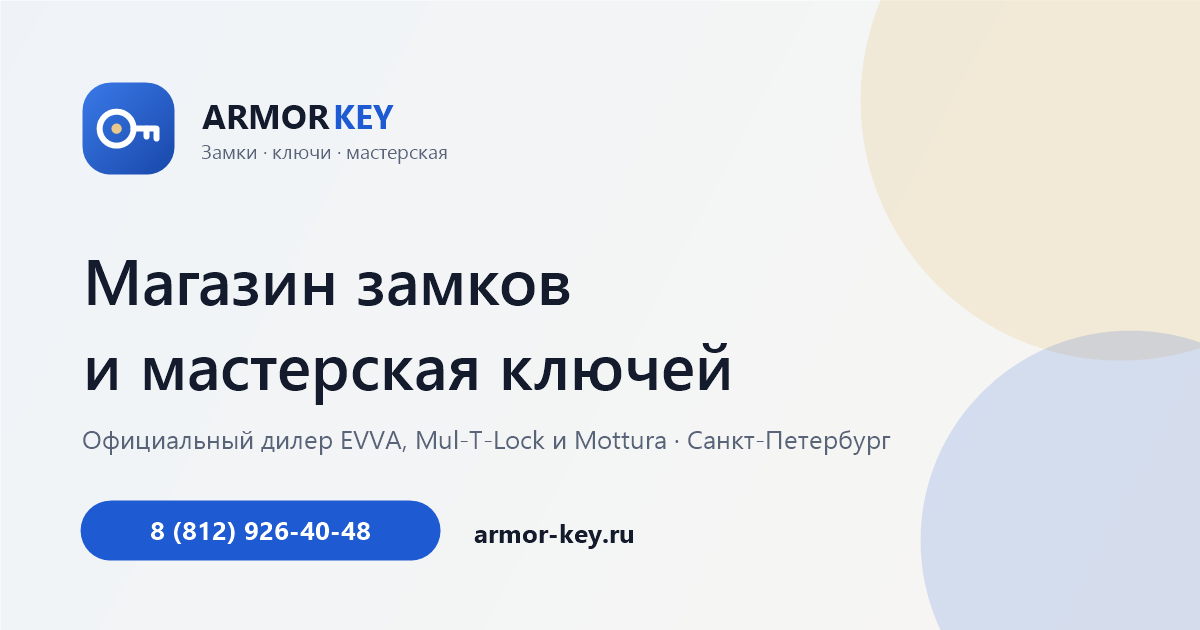
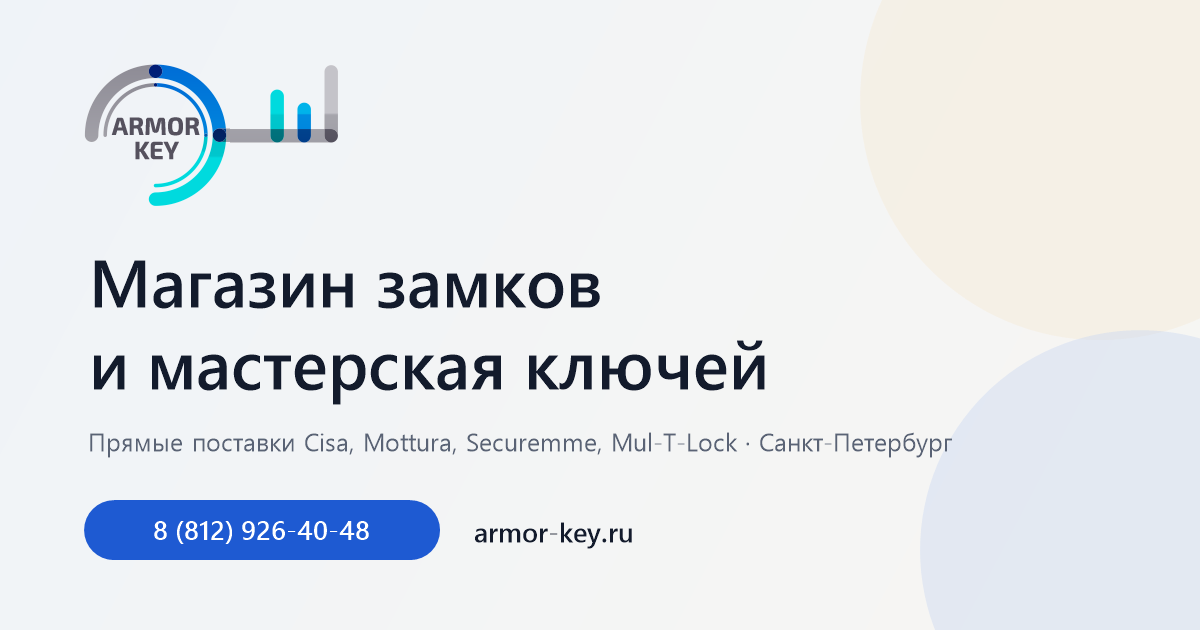
Логотип со старого сайта, фавиконки и превью ссылок из него

diff --git a/search/index.html b/search/index.html
@@ -20,7 +20,7 @@
   <meta property="og:image:width" content="1200">
   <meta property="og:image:height" content="630">
   <meta name="twitter:card" content="summary_large_image">
-  <link rel="icon" href="/armor-key-preview/assets/img/favicon.svg" type="image/svg+xml">
+  <link rel="icon" href="/armor-key-preview/assets/img/favicon.ico" sizes="48x48">
   <link rel="icon" href="/armor-key-preview/assets/img/favicon-32.png" sizes="32x32" type="image/png">
   <link rel="apple-touch-icon" href="/armor-key-preview/assets/img/apple-touch-icon.png">
   <script type="application/ld+json">{"@context":"https://schema.org","@type":"BreadcrumbList","itemListElement":[{"@type":"ListItem","position":1,"name":"Главная","item":"https://armor-key.ru/"},{"@type":"ListItem","position":2,"name":"Поиск","item":"https://armor-key.ru/search/"}]}</script>
@@ -28,7 +28,7 @@
   <link rel="preconnect" href="https://fonts.googleapis.com">
   <link rel="preconnect" href="https://fonts.gstatic.com" crossorigin>
   <link href="https://fonts.googleapis.com/css2?family=Manrope:wght@400;500;600;700;800&display=swap" rel="stylesheet">
-  <link rel="stylesheet" href="/armor-key-preview/assets/css/style.css?v=56c105db">
+  <link rel="stylesheet" href="/armor-key-preview/assets/css/style.css?v=d52d5fbb">
   
 </head>
 <body>
@@ -54,6 +54,6 @@
     <script type="application/json" id="search-index">[{"t":"Броненакладки и пластины","d":"Броненакладки и бронепластины для цилиндровых и сувальдных замков. Подбор по типу замка и толщине двери, установка.","u":"/armor-key-preview/catalog/bronenakladki-i-komplektuyushchie/bronenakladki-i-plastiny/"},{"t":"Броненакладки и комплектующие","d":"Броненакладки и пластины, магнитные броненакладки, перекодировочные комплекты для замков. Подбор под цилиндр, установка мастером.","u":"/armor-key-preview/catalog/bronenakladki-i-komplektuyushchie/"},{"t":"Магнитные броненакладки","d":"Магнитные броненакладки с закрывающейся шторкой для цилиндровых замков. Защита от вандализма и манипуляций. Установка.","u":"/armor-key-preview/catalog/bronenakladki-i-komplektuyushchie/magnitnye-bronenakladki/"},{"t":"Перекодировочные комплекты для замков","d":"Перекодировочные комплекты для сувальдных замков: новые ключи без замены замка. Подбор по модели, установка мастером.","u":"/armor-key-preview/catalog/bronenakladki-i-komplektuyushchie/perekodirovochnye-kompekty-dlya-zamkov/"},{"t":"Дополнительные опции EVVA","d":"Дополнительные опции и комплектующие для цилиндров EVVA. Заказ у официального дилера в Санкт-Петербурге.","u":"/armor-key-preview/catalog/dopolnitelnye-optsii/evva/"},{"t":"Дополнительные опции к цилиндрам","d":"Дополнительные опции и комплектующие для цилиндров EVVA и Mul-T-Lock: удлинители, вертушки, защитные функции. Официальный дилер.","u":"/armor-key-preview/catalog/dopolnitelnye-optsii/"},{"t":"Дополнительные опции Mul-T-Lock","d":"Дополнительные опции и комплектующие для цилиндров Mul-T-Lock. Заказ у официального дилера в Санкт-Петербурге.","u":"/armor-key-preview/catalog/dopolnitelnye-optsii/mul-t-lock/"},{"t":"Каталог замков и комплектующих","d":"Замки, цилиндровые механизмы, броненакладки и мастер-системы Cisa, Mottura, Securemme, Mul-T-Lock. Прямые поставки, цены ниже маркетплейсов, доставка по СПб и России.","u":"/armor-key-preview/catalog/"},{"t":"Мастер-система под один ключ","d":"Цилиндры под один ключ и иерархические мастер-системы Mul-T-Lock, EVVA, Mottura для дома, офиса и ЖК. Сборка за 1 день, при покупке цилиндров — бесплатно.","u":"/armor-key-preview/catalog/master-sistema-pod-odin-klyuch/"},{"t":"Цилиндровые механизмы Апекс","d":"Цилиндровые механизмы Апекс (Apecs) для входных и межкомнатных дверей. Недорогие цилиндры с перекодировкой и мастер-системами.","u":"/armor-key-preview/catalog/tsilindrovye-mekhanizmy/apeks/"},{"t":"Цилиндровые механизмы (личинки)","d":"Цилиндры Cisa, Mottura, Securemme, Mul-T-Lock, EVVA с картой владельца. Подбор размера, замена личинки мастером, прямые поставки.","u":"/armor-key-preview/catalog/tsilindrovye-mekhanizmy/"},{"t":"Цилиндровые механизмы Securemme","d":"Цилиндры Securemme для входных дверей. Подбор размера, замена личинки и замков Securemme, изготовление ключей.","u":"/armor-key-preview/catalog/tsilindrovye-mekhanizmy/securemme/"},{"t":"Цилиндровые механизмы Mul-T-Lock","d":"Цилиндровые механизмы Mul-T-Lock: Interactive+, Classic, MT5 и другие серии. Официальный дилер, карта владельца, перекодировка.","u":"/armor-key-preview/catalog/tsilindrovye-mekhanizmy/tsilindrovye-mekhanizmy-mul-t-lock/"},{"t":"Цилиндровые механизмы Rav-Bariach","d":"Цилиндровые механизмы Rav-Bariach (Израиль) для стальных дверей. Подбор размера и замена личинки в Санкт-Петербурге.","u":"/armor-key-preview/catalog/tsilindrovye-mekhanizmy/tsilindrovye-mekhanizmy-rav-bariach1/"},{"t":"Цилиндровые механизмы Cisa","d":"Цилиндровые механизмы Cisa Asix, Astral, AP3 и другие. Подбор размера, замена личинки, изготовление ключей Cisa в мастерской.","u":"/armor-key-preview/catalog/tsilindrovye-mekhanizmy/tsilindrovyy-mekhanizm-cisa-italiya/"},{"t":"Цилиндровые механизмы EVVA","d":"Цилиндры EVVA ICS, 3KS, 4KS, EPS, MCS с картой владельца. Официальный дилер в Санкт-Петербурге, изготовление ключей, мастер-системы.","u":"/armor-key-preview/catalog/tsilindrovye-mekhanizmy/tsilindrovyy-mekhanizm-evva-avstriya/"},{"t":"Цилиндровые механизмы Kale Kilit","d":"Цилиндровые механизмы Kale Kilit для входных дверей. Подбор размера по фото, замена личинки мастером в Санкт-Петербурге.","u":"/armor-key-preview/catalog/tsilindrovye-mekhanizmy/tsilindrovyy-mekhanizm-kale-kilit-turtsiya/"},{"t":"Цилиндровые механизмы Mottura","d":"Цилиндры Mottura Champion, Champion Pro, C39 и другие серии. Официальный дилер, изготовление ключей, перекодировка серии J.","u":"/armor-key-preview/catalog/tsilindrovye-mekhanizmy/tsilindrovyy-mekhanizm-mottura-italiya/"},{"t":"Замки для входных дверей","d":"Врезные, накладные и навесные замки для металлических и деревянных дверей. Cisa, Mottura, Securemme, Mul-T-Lock. Подбор по фото, установка от 6 000 ₽.","u":"/armor-key-preview/catalog/zamki/"},{"t":"Накладные замки","d":"Накладные замки для металлических и деревянных дверей, с вертушкой и защёлкой. Подбор и установка мастером в Санкт-Петербурге.","u":"/armor-key-preview/catalog/zamki/nakladnye-zamki/"},{"t":"Навесные замки","d":"Навесные замки для гаражей, складов, ворот и калиток. Замки с защищённой дужкой и высокой секретностью. Доставка по СПб.","u":"/armor-key-preview/catalog/zamki/navesnye-zamki/"},{"t":"Врезные замки","d":"Врезные сувальдные, цилиндровые и двухсистемные замки для металлических и деревянных дверей. Подбор по габаритам, установка мастером.","u":"/armor-key-preview/catalog/zamki/vreznye-zamki/"},{"t":"Замок врезной Apecs 1423-G","d":"Замок врезной Apecs 1423-G для входных и межкомнатных дверей. Официальная гарантия 2 года, установка за 1 день.","u":"/armor-key-preview/catalog/zamki/vreznye-zamki/zamok-vreznoy-apecs-1423-g/"},{"t":"Мастерская, которой доверяют ключи","d":"Armor Key — мастерская и магазин замков в Санкт-Петербурге. Изготовление ключей, установка и ремонт замков, официальный дилер EVVA, Mul-T-Lock, Mottura.","u":"/armor-key-preview/company/"},{"t":"Контакты","d":"Адрес мастерской Armor Key: Санкт-Петербург, пр. Юрия Гагарина, 34 к2. Телефон 8 (812) 926-40-48, ежедневно 10:00–20:00.","u":"/armor-key-preview/contacts/"},{"t":"Доставка и оплата","d":"Самовывоз бесплатно, доставка по Санкт-Петербургу в день заказа, СДЭК по России. Бесплатная доставка от 10 000 ₽. Оплата наличными, картой, по счёту.","u":"/armor-key-preview/help/delivery/"},{"t":"Гарантия и возврат","d":"Официальная гарантия на замки до 2 лет. Возврат товара в течение 14 дней, для заказов с доставкой — 7 дней с момента получения.","u":"/armor-key-preview/help/warranty/"},{"t":"Надёжные замки и&nbsp;ключи за 10 минут","d":"Взломостойкие замки, цилиндры и броненакладки EVVA, Mul-T-Lock, Mottura. Изготовление ключей, вскрытие, замена и установка замков в СПб. Официальный дилер, гарантия 2 года.","u":"/"},{"t":"EVVA в Санкт-Петербурге","d":"Официальный дилер EVVA в СПб: цилиндры EPS, ICS, 3KS, 4KS, MCS с картой владельца, изготовление ключей, мастер-системы.","u":"/armor-key-preview/info/brands/evva/"},{"t":"Бренды","d":"EVVA, Mul-T-Lock, Mottura, Cisa, Securemme, Kale и другие бренды замков в Санкт-Петербурге. Официальная гарантия, цены производителя.","u":"/armor-key-preview/info/brands/"},{"t":"Mottura в Санкт-Петербурге","d":"Официальный дилер Mottura в СПб: цилиндры Champion и Champion Pro, ключи MY-KEY, C39, C30, перекодировка замков серии J.","u":"/armor-key-preview/info/brands/mottura/"},{"t":"Mul-T-Lock в Санкт-Петербурге","d":"Официальный дилер Mul-T-Lock в СПб: цилиндры Interactive+, Classic, MT5, ключи по карте, перекодировка цилиндров на новые ключи.","u":"/armor-key-preview/info/brands/mul_t_lock/"},{"t":"Политика обработки персональных данных","d":"Политика в отношении обработки персональных данных пользователей сайта armor-key.ru.","u":"/armor-key-preview/privacy/"},{"t":"Акции","d":"Скидки на мастер-системы, изготовление ключей, установку и замену замков, броненакладки в Санкт-Петербурге.","u":"/armor-key-preview/sale/"},{"t":"Услуги и цены","d":"Изготовление ключей, вскрытие, замена, установка и перекодировка замков, автоключи и мастер-системы в Санкт-Петербурге. Актуальные цены.","u":"/armor-key-preview/services/"},{"t":"Изготовление автоключей","d":"Дубликаты автоключей, ключи с чипом и пультом, копия чипа для автозапуска. Изготовление по замку зажигания или двери. Цены от 1 500 ₽.","u":"/armor-key-preview/services/izgotovlenie-avtoklyuchey/"},{"t":"Изготовление дубликатов ключей EVVA","d":"Дубликаты ключей EVVA EPS, 3KS, ICS, 4KS, MCS по карте владельца. Официальный дилер EVVA в Санкт-Петербурге. EPS — за 5 минут, 3KS — за 10 минут.","u":"/armor-key-preview/services/izgotovlenie-dublikatov-klyuchey-evva/"},{"t":"Изготовление ключей","d":"Изготовление дубликатов ключей EVVA, Mul-T-Lock, Mottura, Cisa, Securemme, Gerda, Disec. Большинство ключей — за 5–15 минут при вас. Официальный дилер.","u":"/armor-key-preview/services/izgotovlenie-klyuchey/"},{"t":"Изготовление ключей Cisa","d":"Дубликаты ключей Cisa Asix, Astral, AP3, RS3 и сувальдных «бабочек». От 5 минут, гарантия на все копии. Мастерская на пр. Юрия Гагарина.","u":"/armor-key-preview/services/izgotovlenie-klyuchey-cisa/"},{"t":"Изготовление мастер-систем","d":"Цилиндры под один ключ и иерархические мастер-системы Mul-T-Lock, EVVA, Mottura, Апекс. Сборка за 1 день, при покупке цилиндров — бесплатно.","u":"/armor-key-preview/services/izgotovlenie-master-sistem/"},{"t":"Перекодировка замков","d":"Перекодировка замков Mul-T-Lock, Cisa, Mottura, Гардиан на новые ключи без замены замка. Официальный партнёр Mul-T-Lock, выезд мастера.","u":"/armor-key-preview/services/perekodirovka-zamkov/"},{"t":"Установка замков","d":"Установка врезных и накладных замков в металлические и деревянные двери, калитки. Установка ручек и задвижек. Цены от 6 000 ₽, гарантия.","u":"/armor-key-preview/services/ustanovka-zamkov/"},{"t":"Вскрытие замков","d":"Аккуратное вскрытие дверных замков, сейфов и автомобилей в Санкт-Петербурге. Цены от 3 500 ₽, выезд мастера, восстановление или замена замка.","u":"/armor-key-preview/services/vskrytie-zamkov/"},{"t":"Замена замков и личинок","d":"Замена замков, личинок и дверных ручек на металлических и деревянных дверях. Цены от 4 500 ₽, выезд мастера по СПб, гарантия на работы.","u":"/armor-key-preview/services/zamena-zamkov/"},{"t":"Замена замков Securemme","d":"Замена замков и цилиндров Securemme на входных дверях. Подбор оригинальных комплектующих, выезд мастера по СПб, гарантия на работы.","u":"/armor-key-preview/services/zamena-zamkov-securemme/"}]</script>
   </main>
   <div data-include="footer"></div>
-  <script src="/armor-key-preview/assets/js/main.js?v=56c105db"></script>
+  <script src="/armor-key-preview/assets/js/main.js?v=d52d5fbb"></script>
 </body>
 </html>

diff --git a/assets/js/main.js b/assets/js/main.js
@@ -63,14 +63,8 @@ const P = {
 };
 const icon = (n, cls = '') => `<svg class="${cls}" viewBox="0 0 24 24" fill="none" stroke="currentColor" stroke-width="1.75" stroke-linecap="round" stroke-linejoin="round" aria-hidden="true">${P[n] || ''}</svg>`;
 
-/* Временный логотип-знак (до получения вектора от клиента) */
-const LOGO_MARK = `<svg class="logo__mark" viewBox="0 0 48 48" aria-hidden="true">
-  <defs><linearGradient id="lg" x1="0" y1="0" x2="1" y2="1"><stop offset="0" stop-color="#3A7BEA"/><stop offset="1" stop-color="#1846A8"/></linearGradient></defs>
-  <rect x="1" y="1" width="46" height="46" rx="14" fill="url(#lg)"/>
-  <circle cx="18" cy="24" r="8.5" fill="none" stroke="#fff" stroke-width="3"/>
-  <circle cx="18" cy="24" r="2.6" fill="#E9C98B"/>
-  <path d="M26.5 24H38v5M33 24v4" fill="none" stroke="#fff" stroke-width="3" stroke-linecap="round" stroke-linejoin="round"/>
-</svg>`;
+/* Логотип со старого сайта armor-key.ru (PNG 254×142, обрезан по краям). Нужен вектор (SVG) от клиента — заменить src. */
+const LOGO_MARK = `<img class="logo__img" src="/armor-key-preview/assets/img/logo.png" alt="Armor Key" width="254" height="142">`;
 
 /* --- Данные каталога (демо из реального ассортимента) -------------------- */
 const PRODUCTS = [
@@ -156,7 +150,7 @@ const partials = {
   <header class="header" id="header">
     <div class="container">
       <a class="logo" href="/armor-key-preview/" aria-label="Armor Key — на главную">${LOGO_MARK}
-        <span class="logo__text"><span class="logo__name">ARMOR<b>KEY</b></span><span class="logo__sub">Замки · ключи · мастерская</span></span>
+        <span class="logo__sub logo__sub--side">Замки · ключи<br>мастерская</span>
       </a>
       <nav class="nav" aria-label="Основное меню">
         <a class="nav__link nav__catalog" href="/armor-key-preview/catalog/" data-mega>${icon('grid')}Каталог</a>
@@ -203,7 +197,7 @@ const partials = {
   <div class="drawer" id="drawer" aria-hidden="true">
     <div class="drawer__overlay" data-drawer-close></div>
     <aside class="drawer__panel" aria-label="Мобильное меню">
-      <div class="drawer__head"><a class="logo" href="/armor-key-preview/">${LOGO_MARK}<span class="logo__text"><span class="logo__name">ARMOR<b>KEY</b></span></span></a>
+      <div class="drawer__head"><a class="logo" href="/armor-key-preview/">${LOGO_MARK}</a>
         <button class="icon-btn" aria-label="Закрыть" data-drawer-close>${icon('x')}</button></div>
       <nav class="drawer__nav">
         <details><summary>Каталог ${icon('chevron')}</summary>
@@ -227,7 +221,7 @@ const partials = {
     <div class="container">
       <div class="footer__grid">
         <div class="footer__about">
-          <a class="logo" href="/armor-key-preview/">${LOGO_MARK}<span class="logo__text"><span class="logo__name">ARMOR<b>KEY</b></span><span class="logo__sub">Замки · ключи · мастерская</span></span></a>
+          <a class="logo" href="/armor-key-preview/">${LOGO_MARK}</a>
           <p>Магазин замков и мастерская в Санкт-Петербурге. Прямые поставки Cisa, Mottura, Securemme и Mul-T-Lock — цены ниже, чем на маркетплейсах.</p>
           <div class="footer__social">
             <a href="${SITE.vk}" target="_blank" rel="noopener" aria-label="ВКонтакте">${icon('vk')}</a>

diff --git a/services/izgotovlenie-klyuchey/index.html b/services/izgotovlenie-klyuchey/index.html
@@ -20,7 +20,7 @@
   <meta property="og:image:width" content="1200">
   <meta property="og:image:height" content="630">
   <meta name="twitter:card" content="summary_large_image">
-  <link rel="icon" href="/armor-key-preview/assets/img/favicon.svg" type="image/svg+xml">
+  <link rel="icon" href="/armor-key-preview/assets/img/favicon.ico" sizes="48x48">
   <link rel="icon" href="/armor-key-preview/assets/img/favicon-32.png" sizes="32x32" type="image/png">
   <link rel="apple-touch-icon" href="/armor-key-preview/assets/img/apple-touch-icon.png">
   <script type="application/ld+json">{"@context":"https://schema.org","@type":"BreadcrumbList","itemListElement":[{"@type":"ListItem","position":1,"name":"Главная","item":"https://armor-key.ru/"},{"@type":"ListItem","position":2,"name":"Услуги","item":"https://armor-key.ru/services/"},{"@type":"ListItem","position":3,"name":"Изготовление ключей","item":"https://armor-key.ru/services/izgotovlenie-klyuchey/"}]}</script>
@@ -28,7 +28,7 @@
   <link rel="preconnect" href="https://fonts.googleapis.com">
   <link rel="preconnect" href="https://fonts.gstatic.com" crossorigin>
   <link href="https://fonts.googleapis.com/css2?family=Manrope:wght@400;500;600;700;800&display=swap" rel="stylesheet">
-  <link rel="stylesheet" href="/armor-key-preview/assets/css/style.css?v=56c105db">
+  <link rel="stylesheet" href="/armor-key-preview/assets/css/style.css?v=d52d5fbb">
   <script type="application/ld+json">{"@context":"https://schema.org","@type":"Service","name":"Изготовление ключей","description":"Изготовление дубликатов ключей EVVA, Mul-T-Lock, Mottura, Cisa, Securemme, Gerda, Disec. Большинство ключей — за 5–15 минут при вас. Официальный дилер.","serviceType":"Изготовление ключей","areaServed":"Санкт-Петербург и Ленинградская область","provider":{"@type":"Locksmith","name":"Armor Key","telephone":"+7-812-926-40-48","url":"https://armor-key.ru"},"offers":{"@type":"AggregateOffer","priceCurrency":"RUB","lowPrice":400,"highPrice":11370}}</script>
   <script type="application/ld+json">{"@context":"https://schema.org","@type":"FAQPage","mainEntity":[{"@type":"Question","name":"Нужна ли карта владельца?","acceptedAnswer":{"@type":"Answer","text":"Для ключей EVVA (ICS, 4KS, MCS), патентованных Mul-T-Lock и Mottura — да. Для обычных ключей достаточно образца."}},{"@type":"Question","name":"Что делать, если дубликат плохо работает?","acceptedAnswer":{"@type":"Answer","text":"Привезите ключ в мастерскую — доработаем или переделаем бесплатно. На все дубликаты действует гарантия."}},{"@type":"Question","name":"Можно ли заказать ключ дистанционно?","acceptedAnswer":{"@type":"Answer","text":"Да: пришлите фото ключа и карты владельца в WhatsApp, мы назовём цену и срок. Готовый ключ отправим курьером или СДЭК."}}]}</script>
 </head>
@@ -164,6 +164,6 @@
     </section>
   </main>
   <div data-include="footer"></div>
-  <script src="/armor-key-preview/assets/js/main.js?v=56c105db"></script>
+  <script src="/armor-key-preview/assets/js/main.js?v=d52d5fbb"></script>
 </body>
 </html>

diff --git a/catalog/zamki/index.html b/catalog/zamki/index.html
@@ -20,7 +20,7 @@
   <meta property="og:image:width" content="1200">
   <meta property="og:image:height" content="630">
   <meta name="twitter:card" content="summary_large_image">
-  <link rel="icon" href="/armor-key-preview/assets/img/favicon.svg" type="image/svg+xml">
+  <link rel="icon" href="/armor-key-preview/assets/img/favicon.ico" sizes="48x48">
   <link rel="icon" href="/armor-key-preview/assets/img/favicon-32.png" sizes="32x32" type="image/png">
   <link rel="apple-touch-icon" href="/armor-key-preview/assets/img/apple-touch-icon.png">
   <script type="application/ld+json">{"@context":"https://schema.org","@type":"BreadcrumbList","itemListElement":[{"@type":"ListItem","position":1,"name":"Главная","item":"https://armor-key.ru/"},{"@type":"ListItem","position":2,"name":"Каталог","item":"https://armor-key.ru/catalog/"},{"@type":"ListItem","position":3,"name":"Замки","item":"https://armor-key.ru/catalog/zamki/"}]}</script>
@@ -28,7 +28,7 @@
   <link rel="preconnect" href="https://fonts.googleapis.com">
   <link rel="preconnect" href="https://fonts.gstatic.com" crossorigin>
   <link href="https://fonts.googleapis.com/css2?family=Manrope:wght@400;500;600;700;800&display=swap" rel="stylesheet">
-  <link rel="stylesheet" href="/armor-key-preview/assets/css/style.css?v=56c105db">
+  <link rel="stylesheet" href="/armor-key-preview/assets/css/style.css?v=d52d5fbb">
   <script type="application/ld+json">{"@context":"https://schema.org","@type":"CollectionPage","name":"Замки для входных дверей","description":"Врезные, накладные и навесные замки для металлических и деревянных дверей. Cisa, Mottura, Securemme, Mul-T-Lock. Подбор по фото, установка от 6 000 ₽.","url":"https://armor-key.ru/catalog/zamki/"}</script>
   <script type="application/ld+json">{"@context":"https://schema.org","@type":"FAQPage","mainEntity":[{"@type":"Question","name":"Как узнать, какой замок подойдёт к моей двери?","acceptedAnswer":{"@type":"Answer","text":"Измерьте межосевое расстояние, бэксет и длину лицевой планки — или просто пришлите фото торца двери и замка в WhatsApp. Мастер подберёт модель с теми же габаритами, чтобы не переделывать дверь."}},{"@type":"Question","name":"Можно ли установить замок в день покупки?","acceptedAnswer":{"@type":"Answer","text":"Да, в большинстве случаев. Оставьте заявку при оформлении заказа — согласуем время выезда мастера."}},{"@type":"Question","name":"Есть ли гарантия?","acceptedAnswer":{"@type":"Answer","text":"На замки действует гарантия производителя, на работы по установке — гарантия мастерской. Подробнее — на странице «Гарантия и возврат»."}}]}</script>
 </head>
@@ -111,6 +111,6 @@
     </section>
   </main>
   <div data-include="footer"></div>
-  <script src="/armor-key-preview/assets/js/main.js?v=56c105db"></script>
+  <script src="/armor-key-preview/assets/js/main.js?v=d52d5fbb"></script>
 </body>
 </html>

diff --git a/catalog/tsilindrovye-mekhanizmy/index.html b/catalog/tsilindrovye-mekhanizmy/index.html
@@ -20,7 +20,7 @@
   <meta property="og:image:width" content="1200">
   <meta property="og:image:height" content="630">
   <meta name="twitter:card" content="summary_large_image">
-  <link rel="icon" href="/armor-key-preview/assets/img/favicon.svg" type="image/svg+xml">
+  <link rel="icon" href="/armor-key-preview/assets/img/favicon.ico" sizes="48x48">
   <link rel="icon" href="/armor-key-preview/assets/img/favicon-32.png" sizes="32x32" type="image/png">
   <link rel="apple-touch-icon" href="/armor-key-preview/assets/img/apple-touch-icon.png">
   <script type="application/ld+json">{"@context":"https://schema.org","@type":"BreadcrumbList","itemListElement":[{"@type":"ListItem","position":1,"name":"Главная","item":"https://armor-key.ru/"},{"@type":"ListItem","position":2,"name":"Каталог","item":"https://armor-key.ru/catalog/"},{"@type":"ListItem","position":3,"name":"Цилиндровые механизмы","item":"https://armor-key.ru/catalog/tsilindrovye-mekhanizmy/"}]}</script>
@@ -28,7 +28,7 @@
   <link rel="preconnect" href="https://fonts.googleapis.com">
   <link rel="preconnect" href="https://fonts.gstatic.com" crossorigin>
   <link href="https://fonts.googleapis.com/css2?family=Manrope:wght@400;500;600;700;800&display=swap" rel="stylesheet">
-  <link rel="stylesheet" href="/armor-key-preview/assets/css/style.css?v=56c105db">
+  <link rel="stylesheet" href="/armor-key-preview/assets/css/style.css?v=d52d5fbb">
   <script type="application/ld+json">{"@context":"https://schema.org","@type":"CollectionPage","name":"Цилиндровые механизмы (личинки)","description":"Цилиндры Cisa, Mottura, Securemme, Mul-T-Lock, EVVA с картой владельца. Подбор размера, замена личинки мастером, прямые поставки.","url":"https://armor-key.ru/catalog/tsilindrovye-mekhanizmy/"}</script>
   <script type="application/ld+json">{"@context":"https://schema.org","@type":"FAQPage","mainEntity":[{"@type":"Question","name":"Можно ли заменить только личинку, не меняя замок?","acceptedAnswer":{"@type":"Answer","text":"Да, если замок цилиндровый или двухсистемный. Замена цилиндра занимает 15–30 минут, мастер может приехать к вам."}},{"@type":"Question","name":"Чем отличаются серии EVVA, Mul-T-Lock и Mottura?","acceptedAnswer":{"@type":"Answer","text":"Уровнем защиты профиля ключа и сроком патента. Расскажем о разнице на примере вашей двери — позвоните или напишите в мессенджер."}},{"@type":"Question","name":"Что делать, если ключ от цилиндра потерян?","acceptedAnswer":{"@type":"Answer","text":"Цилиндр можно перекодировать на новые ключи или заменить. Для систем с картой владельца дубликат делается только по карте."}}]}</script>
 </head>
@@ -162,6 +162,6 @@
     </section>
   </main>
   <div data-include="footer"></div>
-  <script src="/armor-key-preview/assets/js/main.js?v=56c105db"></script>
+  <script src="/armor-key-preview/assets/js/main.js?v=d52d5fbb"></script>
 </body>
 </html>

diff --git a/services/izgotovlenie-dublikatov-klyuchey-evva/index.html b/services/izgotovlenie-dublikatov-klyuchey-evva/index.html
@@ -20,7 +20,7 @@
   <meta property="og:image:width" content="1200">
   <meta property="og:image:height" content="630">
   <meta name="twitter:card" content="summary_large_image">
-  <link rel="icon" href="/armor-key-preview/assets/img/favicon.svg" type="image/svg+xml">
+  <link rel="icon" href="/armor-key-preview/assets/img/favicon.ico" sizes="48x48">
   <link rel="icon" href="/armor-key-preview/assets/img/favicon-32.png" sizes="32x32" type="image/png">
   <link rel="apple-touch-icon" href="/armor-key-preview/assets/img/apple-touch-icon.png">
   <script type="application/ld+json">{"@context":"https://schema.org","@type":"BreadcrumbList","itemListElement":[{"@type":"ListItem","position":1,"name":"Главная","item":"https://armor-key.ru/"},{"@type":"ListItem","position":2,"name":"Услуги","item":"https://armor-key.ru/services/"},{"@type":"ListItem","position":3,"name":"Изготовление дубликатов ключей EVVA","item":"https://armor-key.ru/services/izgotovlenie-dublikatov-klyuchey-evva/"}]}</script>
@@ -28,7 +28,7 @@
   <link rel="preconnect" href="https://fonts.googleapis.com">
   <link rel="preconnect" href="https://fonts.gstatic.com" crossorigin>
   <link href="https://fonts.googleapis.com/css2?family=Manrope:wght@400;500;600;700;800&display=swap" rel="stylesheet">
-  <link rel="stylesheet" href="/armor-key-preview/assets/css/style.css?v=56c105db">
+  <link rel="stylesheet" href="/armor-key-preview/assets/css/style.css?v=d52d5fbb">
   <script type="application/ld+json">{"@context":"https://schema.org","@type":"Service","name":"Изготовление дубликатов ключей EVVA","description":"Дубликаты ключей EVVA EPS, 3KS, ICS, 4KS, MCS по карте владельца. Официальный дилер EVVA в Санкт-Петербурге. EPS — за 5 минут, 3KS — за 10 минут.","serviceType":"Дубликаты ключей EVVA","areaServed":"Санкт-Петербург и Ленинградская область","provider":{"@type":"Locksmith","name":"Armor Key","telephone":"+7-812-926-40-48","url":"https://armor-key.ru"},"offers":{"@type":"AggregateOffer","priceCurrency":"RUB","lowPrice":3030,"highPrice":11370}}</script>
   <script type="application/ld+json">{"@context":"https://schema.org","@type":"FAQPage","mainEntity":[{"@type":"Question","name":"Карта владельца потеряна. Что делать?","acceptedAnswer":{"@type":"Answer","text":"Восстановить карту может только официальный дилер при наличии документов на цилиндр. Если документов нет, надёжнее заменить цилиндр — подберём новый с картой."}},{"@type":"Question","name":"Можно ли сделать ключ EVVA по фото?","acceptedAnswer":{"@type":"Answer","text":"Нет. Для систем EVVA нужен оригинал карты владельца — это требование производителя."}}]}</script>
 </head>
@@ -113,6 +113,6 @@
     </section>
   </main>
   <div data-include="footer"></div>
-  <script src="/armor-key-preview/assets/js/main.js?v=56c105db"></script>
+  <script src="/armor-key-preview/assets/js/main.js?v=d52d5fbb"></script>
 </body>
 </html>

diff --git a/services/perekodirovka-zamkov/index.html b/services/perekodirovka-zamkov/index.html
@@ -20,7 +20,7 @@
   <meta property="og:image:width" content="1200">
   <meta property="og:image:height" content="630">
   <meta name="twitter:card" content="summary_large_image">
-  <link rel="icon" href="/armor-key-preview/assets/img/favicon.svg" type="image/svg+xml">
+  <link rel="icon" href="/armor-key-preview/assets/img/favicon.ico" sizes="48x48">
   <link rel="icon" href="/armor-key-preview/assets/img/favicon-32.png" sizes="32x32" type="image/png">
   <link rel="apple-touch-icon" href="/armor-key-preview/assets/img/apple-touch-icon.png">
   <script type="application/ld+json">{"@context":"https://schema.org","@type":"BreadcrumbList","itemListElement":[{"@type":"ListItem","position":1,"name":"Главная","item":"https://armor-key.ru/"},{"@type":"ListItem","position":2,"name":"Услуги","item":"https://armor-key.ru/services/"},{"@type":"ListItem","position":3,"name":"Перекодировка замков","item":"https://armor-key.ru/services/perekodirovka-zamkov/"}]}</script>
@@ -28,7 +28,7 @@
   <link rel="preconnect" href="https://fonts.googleapis.com">
   <link rel="preconnect" href="https://fonts.gstatic.com" crossorigin>
   <link href="https://fonts.googleapis.com/css2?family=Manrope:wght@400;500;600;700;800&display=swap" rel="stylesheet">
-  <link rel="stylesheet" href="/armor-key-preview/assets/css/style.css?v=56c105db">
+  <link rel="stylesheet" href="/armor-key-preview/assets/css/style.css?v=d52d5fbb">
   <script type="application/ld+json">{"@context":"https://schema.org","@type":"Service","name":"Перекодировка замков","description":"Перекодировка замков Mul-T-Lock, Cisa, Mottura, Гардиан на новые ключи без замены замка. Официальный партнёр Mul-T-Lock, выезд мастера.","serviceType":"Перекодировка замков","areaServed":"Санкт-Петербург и Ленинградская область","provider":{"@type":"Locksmith","name":"Armor Key","telephone":"+7-812-926-40-48","url":"https://armor-key.ru"},"offers":{"@type":"AggregateOffer","priceCurrency":"RUB","lowPrice":2500,"highPrice":17000}}</script>
   <script type="application/ld+json">{"@context":"https://schema.org","@type":"FAQPage","mainEntity":[{"@type":"Question","name":"Чем перекодировка лучше замены?","acceptedAnswer":{"@type":"Answer","text":"Часто она дешевле и быстрее: не нужно подбирать новый замок по габаритам и разбирать дверь."}},{"@type":"Question","name":"Все ли замки можно перекодировать?","acceptedAnswer":{"@type":"Answer","text":"Нет. Перекодируются цилиндры Mul-T-Lock, замки Cisa Cambio Facile, Mottura серии J, «Гардиан» и сувальдные замки с перекодировочными комплектами."}}]}</script>
 </head>
@@ -115,6 +115,6 @@
     </section>
   </main>
   <div data-include="footer"></div>
-  <script src="/armor-key-preview/assets/js/main.js?v=56c105db"></script>
+  <script src="/armor-key-preview/assets/js/main.js?v=d52d5fbb"></script>
 </body>
 </html>

diff --git a/services/zamena-zamkov/index.html b/services/zamena-zamkov/index.html
@@ -20,7 +20,7 @@
   <meta property="og:image:width" content="1200">
   <meta property="og:image:height" content="630">
   <meta name="twitter:card" content="summary_large_image">
-  <link rel="icon" href="/armor-key-preview/assets/img/favicon.svg" type="image/svg+xml">
+  <link rel="icon" href="/armor-key-preview/assets/img/favicon.ico" sizes="48x48">
   <link rel="icon" href="/armor-key-preview/assets/img/favicon-32.png" sizes="32x32" type="image/png">
   <link rel="apple-touch-icon" href="/armor-key-preview/assets/img/apple-touch-icon.png">
   <script type="application/ld+json">{"@context":"https://schema.org","@type":"BreadcrumbList","itemListElement":[{"@type":"ListItem","position":1,"name":"Главная","item":"https://armor-key.ru/"},{"@type":"ListItem","position":2,"name":"Услуги","item":"https://armor-key.ru/services/"},{"@type":"ListItem","position":3,"name":"Замена замков и личинок","item":"https://armor-key.ru/services/zamena-zamkov/"}]}</script>
@@ -28,7 +28,7 @@
   <link rel="preconnect" href="https://fonts.googleapis.com">
   <link rel="preconnect" href="https://fonts.gstatic.com" crossorigin>
   <link href="https://fonts.googleapis.com/css2?family=Manrope:wght@400;500;600;700;800&display=swap" rel="stylesheet">
-  <link rel="stylesheet" href="/armor-key-preview/assets/css/style.css?v=56c105db">
+  <link rel="stylesheet" href="/armor-key-preview/assets/css/style.css?v=d52d5fbb">
   <script type="application/ld+json">{"@context":"https://schema.org","@type":"Service","name":"Замена замков и личинок","description":"Замена замков, личинок и дверных ручек на металлических и деревянных дверях. Цены от 4 500 ₽, выезд мастера по СПб, гарантия на работы.","serviceType":"Замена замков","areaServed":"Санкт-Петербург и Ленинградская область","provider":{"@type":"Locksmith","name":"Armor Key","telephone":"+7-812-926-40-48","url":"https://armor-key.ru"},"offers":{"@type":"AggregateOffer","priceCurrency":"RUB","lowPrice":4500,"highPrice":8000}}</script>
   <script type="application/ld+json">{"@context":"https://schema.org","@type":"FAQPage","mainEntity":[{"@type":"Question","name":"Можно ли заменить замок в день обращения?","acceptedAnswer":{"@type":"Answer","text":"Да, если нужный замок есть в наличии. Пришлите фото — заранее подберём модель."}},{"@type":"Question","name":"Сколько стоит выезд?","acceptedAnswer":{"@type":"Answer","text":"Выезд входит в стоимость, если вы заказываете работу. Отдельный выезд на замер — 2 500 ₽."}}]}</script>
 </head>
@@ -117,6 +117,6 @@
     </section>
   </main>
   <div data-include="footer"></div>
-  <script src="/armor-key-preview/assets/js/main.js?v=56c105db"></script>
+  <script src="/armor-key-preview/assets/js/main.js?v=d52d5fbb"></script>
 </body>
 </html>

diff --git a/services/ustanovka-zamkov/index.html b/services/ustanovka-zamkov/index.html
@@ -20,7 +20,7 @@
   <meta property="og:image:width" content="1200">
   <meta property="og:image:height" content="630">
   <meta name="twitter:card" content="summary_large_image">
-  <link rel="icon" href="/armor-key-preview/assets/img/favicon.svg" type="image/svg+xml">
+  <link rel="icon" href="/armor-key-preview/assets/img/favicon.ico" sizes="48x48">
   <link rel="icon" href="/armor-key-preview/assets/img/favicon-32.png" sizes="32x32" type="image/png">
   <link rel="apple-touch-icon" href="/armor-key-preview/assets/img/apple-touch-icon.png">
   <script type="application/ld+json">{"@context":"https://schema.org","@type":"BreadcrumbList","itemListElement":[{"@type":"ListItem","position":1,"name":"Главная","item":"https://armor-key.ru/"},{"@type":"ListItem","position":2,"name":"Услуги","item":"https://armor-key.ru/services/"},{"@type":"ListItem","position":3,"name":"Установка замков","item":"https://armor-key.ru/services/ustanovka-zamkov/"}]}</script>
@@ -28,7 +28,7 @@
   <link rel="preconnect" href="https://fonts.googleapis.com">
   <link rel="preconnect" href="https://fonts.gstatic.com" crossorigin>
   <link href="https://fonts.googleapis.com/css2?family=Manrope:wght@400;500;600;700;800&display=swap" rel="stylesheet">
-  <link rel="stylesheet" href="/armor-key-preview/assets/css/style.css?v=56c105db">
+  <link rel="stylesheet" href="/armor-key-preview/assets/css/style.css?v=d52d5fbb">
   <script type="application/ld+json">{"@context":"https://schema.org","@type":"Service","name":"Установка замков","description":"Установка врезных и накладных замков в металлические и деревянные двери, калитки. Установка ручек и задвижек. Цены от 6 000 ₽, гарантия.","serviceType":"Установка замков","areaServed":"Санкт-Петербург и Ленинградская область","provider":{"@type":"Locksmith","name":"Armor Key","telephone":"+7-812-926-40-48","url":"https://armor-key.ru"},"offers":{"@type":"AggregateOffer","priceCurrency":"RUB","lowPrice":6000,"highPrice":12000}}</script>
   <script type="application/ld+json">{"@context":"https://schema.org","@type":"FAQPage","mainEntity":[{"@type":"Question","name":"Сколько времени занимает установка?","acceptedAnswer":{"@type":"Answer","text":"Обычно 1–3 часа. Сложная установка на тяжёлую дверь с подгонкой коробки — до 1,5 дней."}},{"@type":"Question","name":"Даёте ли гарантию на установку?","acceptedAnswer":{"@type":"Answer","text":"Да, на все работы выдаём гарантийный талон."}}]}</script>
 </head>
@@ -117,6 +117,6 @@
     </section>
   </main>
   <div data-include="footer"></div>
-  <script src="/armor-key-preview/assets/js/main.js?v=56c105db"></script>
+  <script src="/armor-key-preview/assets/js/main.js?v=d52d5fbb"></script>
 </body>
 </html>

diff --git a/services/izgotovlenie-master-sistem/index.html b/services/izgotovlenie-master-sistem/index.html
@@ -20,7 +20,7 @@
   <meta property="og:image:width" content="1200">
   <meta property="og:image:height" content="630">
   <meta name="twitter:card" content="summary_large_image">
-  <link rel="icon" href="/armor-key-preview/assets/img/favicon.svg" type="image/svg+xml">
+  <link rel="icon" href="/armor-key-preview/assets/img/favicon.ico" sizes="48x48">
   <link rel="icon" href="/armor-key-preview/assets/img/favicon-32.png" sizes="32x32" type="image/png">
   <link rel="apple-touch-icon" href="/armor-key-preview/assets/img/apple-touch-icon.png">
   <script type="application/ld+json">{"@context":"https://schema.org","@type":"BreadcrumbList","itemListElement":[{"@type":"ListItem","position":1,"name":"Главная","item":"https://armor-key.ru/"},{"@type":"ListItem","position":2,"name":"Услуги","item":"https://armor-key.ru/services/"},{"@type":"ListItem","position":3,"name":"Изготовление мастер-систем","item":"https://armor-key.ru/services/izgotovlenie-master-sistem/"}]}</script>
@@ -28,7 +28,7 @@
   <link rel="preconnect" href="https://fonts.googleapis.com">
   <link rel="preconnect" href="https://fonts.gstatic.com" crossorigin>
   <link href="https://fonts.googleapis.com/css2?family=Manrope:wght@400;500;600;700;800&display=swap" rel="stylesheet">
-  <link rel="stylesheet" href="/armor-key-preview/assets/css/style.css?v=56c105db">
+  <link rel="stylesheet" href="/armor-key-preview/assets/css/style.css?v=d52d5fbb">
   <script type="application/ld+json">{"@context":"https://schema.org","@type":"Service","name":"Изготовление мастер-систем","description":"Цилиндры под один ключ и иерархические мастер-системы Mul-T-Lock, EVVA, Mottura, Апекс. Сборка за 1 день, при покупке цилиндров — бесплатно.","serviceType":"Изготовление мастер-систем","areaServed":"Санкт-Петербург и Ленинградская область","provider":{"@type":"Locksmith","name":"Armor Key","telephone":"+7-812-926-40-48","url":"https://armor-key.ru"},"offers":{"@type":"AggregateOffer","priceCurrency":"RUB","lowPrice":450,"highPrice":800}}</script>
   <script type="application/ld+json">{"@context":"https://schema.org","@type":"FAQPage","mainEntity":[{"@type":"Question","name":"Можно ли переделать уже установленные цилиндры?","acceptedAnswer":{"@type":"Answer","text":"Часто да — цилиндры переобираются под один ключ. Пришлите список цилиндров и фото — проверим совместимость."}}]}</script>
 </head>
@@ -110,6 +110,6 @@
     </section>
   </main>
   <div data-include="footer"></div>
-  <script src="/armor-key-preview/assets/js/main.js?v=56c105db"></script>
+  <script src="/armor-key-preview/assets/js/main.js?v=d52d5fbb"></script>
 </body>
 </html>

diff --git a/services/izgotovlenie-avtoklyuchey/index.html b/services/izgotovlenie-avtoklyuchey/index.html
@@ -20,7 +20,7 @@
   <meta property="og:image:width" content="1200">
   <meta property="og:image:height" content="630">
   <meta name="twitter:card" content="summary_large_image">
-  <link rel="icon" href="/armor-key-preview/assets/img/favicon.svg" type="image/svg+xml">
+  <link rel="icon" href="/armor-key-preview/assets/img/favicon.ico" sizes="48x48">
   <link rel="icon" href="/armor-key-preview/assets/img/favicon-32.png" sizes="32x32" type="image/png">
   <link rel="apple-touch-icon" href="/armor-key-preview/assets/img/apple-touch-icon.png">
   <script type="application/ld+json">{"@context":"https://schema.org","@type":"BreadcrumbList","itemListElement":[{"@type":"ListItem","position":1,"name":"Главная","item":"https://armor-key.ru/"},{"@type":"ListItem","position":2,"name":"Услуги","item":"https://armor-key.ru/services/"},{"@type":"ListItem","position":3,"name":"Изготовление автоключей","item":"https://armor-key.ru/services/izgotovlenie-avtoklyuchey/"}]}</script>
@@ -28,7 +28,7 @@
   <link rel="preconnect" href="https://fonts.googleapis.com">
   <link rel="preconnect" href="https://fonts.gstatic.com" crossorigin>
   <link href="https://fonts.googleapis.com/css2?family=Manrope:wght@400;500;600;700;800&display=swap" rel="stylesheet">
-  <link rel="stylesheet" href="/armor-key-preview/assets/css/style.css?v=56c105db">
+  <link rel="stylesheet" href="/armor-key-preview/assets/css/style.css?v=d52d5fbb">
   <script type="application/ld+json">{"@context":"https://schema.org","@type":"Service","name":"Изготовление автоключей","description":"Дубликаты автоключей, ключи с чипом и пультом, копия чипа для автозапуска. Изготовление по замку зажигания или двери. Цены от 1 500 ₽.","serviceType":"Изготовление автоключей","areaServed":"Санкт-Петербург и Ленинградская область","provider":{"@type":"Locksmith","name":"Armor Key","telephone":"+7-812-926-40-48","url":"https://armor-key.ru"},"offers":{"@type":"AggregateOffer","priceCurrency":"RUB","lowPrice":1500,"highPrice":6000}}</script>
   <script type="application/ld+json">{"@context":"https://schema.org","@type":"FAQPage","mainEntity":[{"@type":"Question","name":"Ключей от машины нет совсем. Что делать?","acceptedAnswer":{"@type":"Answer","text":"Ключ можно изготовить по замку двери или зажигания. Если машина закрыта — сначала вскрытие."}}]}</script>
 </head>
@@ -117,6 +117,6 @@
     </section>
   </main>
   <div data-include="footer"></div>
-  <script src="/armor-key-preview/assets/js/main.js?v=56c105db"></script>
+  <script src="/armor-key-preview/assets/js/main.js?v=d52d5fbb"></script>
 </body>
 </html>

diff --git a/services/zamena-zamkov-securemme/index.html b/services/zamena-zamkov-securemme/index.html
@@ -20,7 +20,7 @@
   <meta property="og:image:width" content="1200">
   <meta property="og:image:height" content="630">
   <meta name="twitter:card" content="summary_large_image">
-  <link rel="icon" href="/armor-key-preview/assets/img/favicon.svg" type="image/svg+xml">
+  <link rel="icon" href="/armor-key-preview/assets/img/favicon.ico" sizes="48x48">
   <link rel="icon" href="/armor-key-preview/assets/img/favicon-32.png" sizes="32x32" type="image/png">
   <link rel="apple-touch-icon" href="/armor-key-preview/assets/img/apple-touch-icon.png">
   <script type="application/ld+json">{"@context":"https://schema.org","@type":"BreadcrumbList","itemListElement":[{"@type":"ListItem","position":1,"name":"Главная","item":"https://armor-key.ru/"},{"@type":"ListItem","position":2,"name":"Услуги","item":"https://armor-key.ru/services/"},{"@type":"ListItem","position":3,"name":"Замена замков Securemme","item":"https://armor-key.ru/services/zamena-zamkov-securemme/"}]}</script>
@@ -28,7 +28,7 @@
   <link rel="preconnect" href="https://fonts.googleapis.com">
   <link rel="preconnect" href="https://fonts.gstatic.com" crossorigin>
   <link href="https://fonts.googleapis.com/css2?family=Manrope:wght@400;500;600;700;800&display=swap" rel="stylesheet">
-  <link rel="stylesheet" href="/armor-key-preview/assets/css/style.css?v=56c105db">
+  <link rel="stylesheet" href="/armor-key-preview/assets/css/style.css?v=d52d5fbb">
   <script type="application/ld+json">{"@context":"https://schema.org","@type":"Service","name":"Замена замков Securemme","description":"Замена замков и цилиндров Securemme на входных дверях. Подбор оригинальных комплектующих, выезд мастера по СПб, гарантия на работы.","serviceType":"Замена замков Securemme","areaServed":"Санкт-Петербург и Ленинградская область","provider":{"@type":"Locksmith","name":"Armor Key","telephone":"+7-812-926-40-48","url":"https://armor-key.ru"},"offers":{"@type":"AggregateOffer","priceCurrency":"RUB","lowPrice":1600,"highPrice":8000}}</script>
   <script type="application/ld+json">{"@context":"https://schema.org","@type":"FAQPage","mainEntity":[{"@type":"Question","name":"Можно ли заменить только сувальдную часть?","acceptedAnswer":{"@type":"Answer","text":"Да, для многих моделей Securemme есть перекодировочные комплекты. Пришлите фото замка — проверим."}}]}</script>
 </head>
@@ -111,6 +111,6 @@
     </section>
   </main>
   <div data-include="footer"></div>
-  <script src="/armor-key-preview/assets/js/main.js?v=56c105db"></script>
+  <script src="/armor-key-preview/assets/js/main.js?v=d52d5fbb"></script>
 </body>
 </html>
